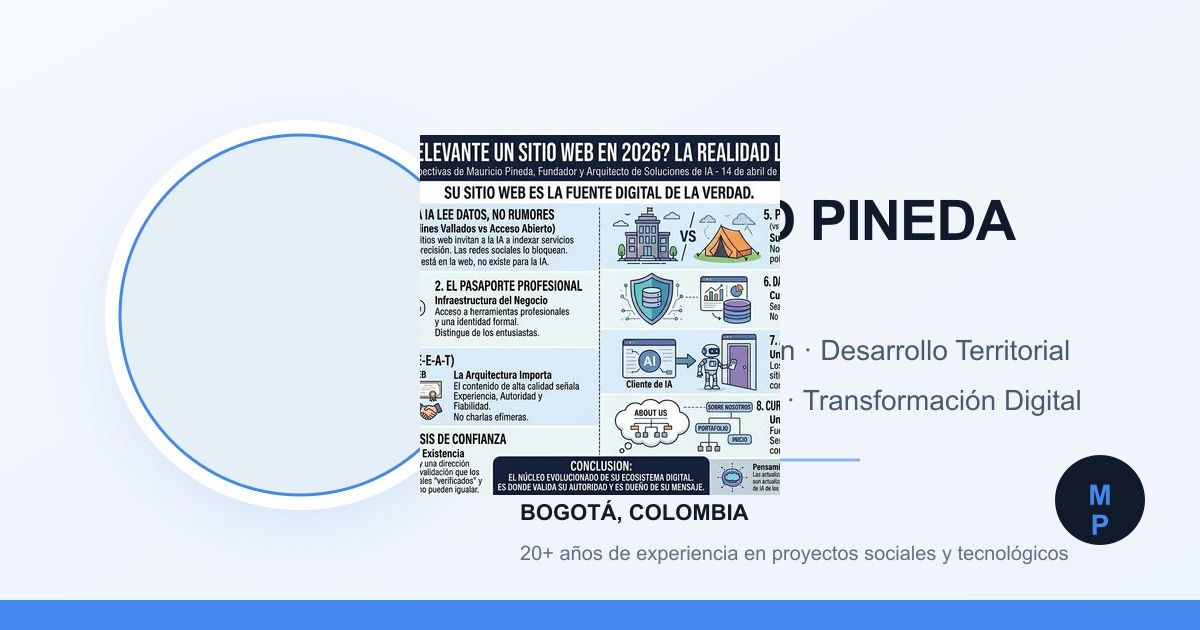
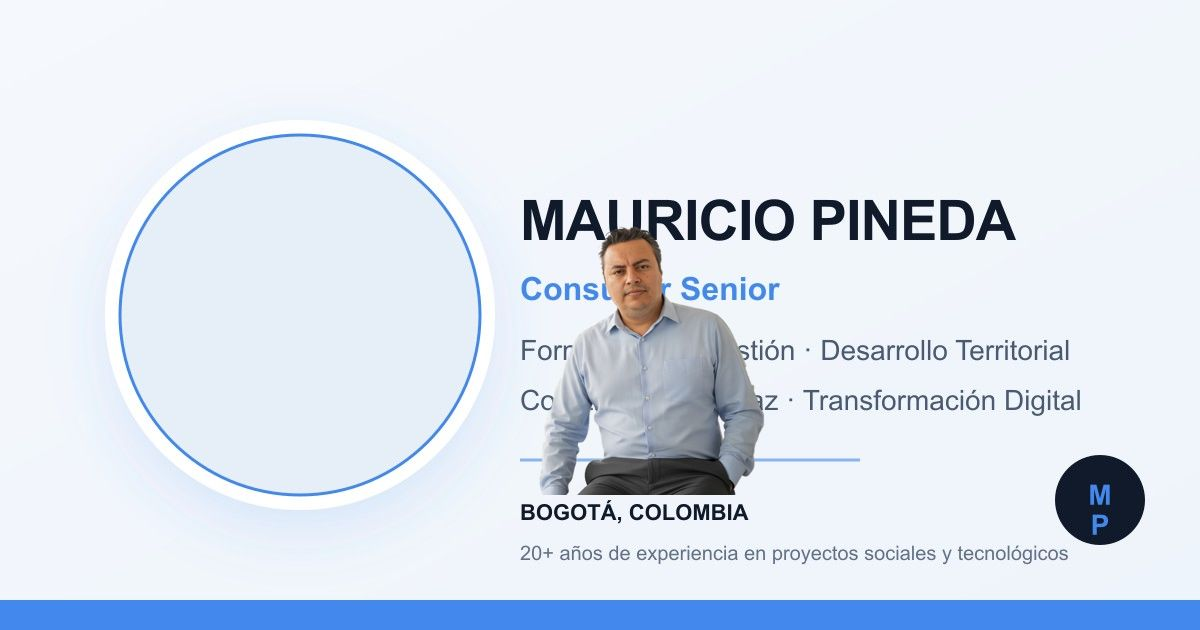
fix(consultoria): fix OG image with actual photo in circle and hide skip link visually

Changed region(s): [[0.3392, 0.2111, 0.6475, 0.7841]]

diff --git a/consultoria/consultoria.css b/consultoria/consultoria.css
@@ -1,4 +1,4 @@
-:root{--ink:#101a2b;--muted:#637087;--blue:#4388ed;--line:rgba(39,61,91,.14);--paper:#f5f8fc}*{box-sizing:border-box}html{scroll-behavior:smooth;scroll-padding-top:90px}body{margin:0;font-family:'DM Sans',sans-serif;color:var(--ink);background:#f5f8fc}body:before{content:"";position:fixed;inset:0;z-index:-3;background:radial-gradient(ellipse at 78% 16%,rgba(111,164,239,.16),transparent 33%),linear-gradient(135deg,#f7f9fc,#eef4fb 65%,#f8fafc)}#bg-canvas{position:fixed;inset:0;width:100%;height:100%;z-index:-1;pointer-events:none;opacity:.65}a{color:inherit}h1,h2,h3{font-family:Manrope,sans-serif;letter-spacing:-.045em}.site-nav{height:78px;position:sticky;top:0;z-index:20;display:flex;align-items:center;justify-content:space-between;padding:0 clamp(22px,7vw,110px);background:rgba(246,249,253,.83);backdrop-filter:blur(18px);border-bottom:1px solid rgba(45,69,100,.1)}.brand{font:800 1.65rem Manrope,sans-serif;letter-spacing:-.08em;text-decoration:none;color:var(--ink)}.brand span{color:var(--blue)}.site-nav nav{display:flex;align-items:center;gap:clamp(18px,3vw,42px)}.site-nav nav a,.text-link{font-size:.88rem;color:#46536a;text-decoration:none;font-weight:600;transition:color .2s}.site-nav nav a:hover,.text-link:hover{color:var(--blue)}.site-nav nav .nav-cta{padding:11px 17px;border:1px solid rgba(26,45,75,.22);border-radius:4px;color:var(--ink)}.nav-cta span{color:var(--blue)}.hero{min-height:calc(100vh - 78px);position:relative;display:grid;grid-template-columns:1.08fr .92fr;align-items:center;gap:2rem;padding:65px clamp(22px,8vw,125px) 88px;overflow:hidden}.hero-copy{max-width:700px;position:relative;z-index:2}.eyebrow{font-size:.72rem;letter-spacing:.16em;font-weight:700;color:#52627a}.eyebrow-dot{display:inline-block;width:7px;height:7px;background:var(--blue);border-radius:50%;margin-right:9px;box-shadow:0 0 0 5px rgba(67,136,237,.13)}.hero h1{font-size:clamp(3.2rem,6.1vw,6.2rem);line-height:1.02;font-weight:600;margin:25px 0}.hero h1 em,.section-heading h2 em,.services-heading h2 em,.contact h2 em{font-style:normal;color:var(--blue)}.hero-lead{font-size:clamp(1rem,1.3vw,1.17rem);line-height:1.85;color:#526078;max-width:610px}.hero-actions,.contact-actions{display:flex;align-items:center;gap:28px;flex-wrap:wrap;margin-top:32px}.button-primary{display:inline-flex;align-items:center;gap:24px;padding:15px 20px;background:var(--ink);color:#fff;text-decoration:none;border-radius:4px;font-size:.9rem;font-weight:600;transition:transform .25s,background .25s}.button-primary:hover{background:#245db3;transform:translateY(-3px)}.button-primary span{font-size:1.2rem}.hero-proof{display:flex;align-items:center;gap:16px;margin-top:48px;padding-top:20px;border-top:1px solid var(--line);max-width:420px}.hero-proof strong{font:700 1.45rem Manrope,sans-serif}.hero-proof span{font-size:.83rem;color:var(--muted);max-width:160px;line-height:1.45}.hero-visual{height:min(69vh,680px);min-height:450px;position:relative;display:flex;align-items:flex-end;justify-content:center;isolation:isolate}.hero-visual:before{content:"";position:absolute;inset:10% 4% 0;border-radius:48% 48% 8px 8px;background:linear-gradient(145deg,rgba(223,235,251,.8),rgba(244,247,252,.22));border:1px solid rgba(255,255,255,.8);z-index:-1}.portrait-halo{position:absolute;width:70%;aspect-ratio:1;border-radius:50%;background:rgba(87,150,239,.2);filter:blur(60px);top:10%;z-index:-1}.portrait{width:100%;height:100%;object-fit:contain;object-position:center bottom;position:relative;z-index:1;filter:drop-shadow(0 22px 28px rgba(24,45,77,.13))}.portrait-ring{position:absolute;border:1px solid rgba(63,125,215,.25);border-radius:50%;aspect-ratio:1;z-index:-1}.ring-a{width:88%;top:4%;left:0}.ring-b{width:68%;top:15%;right:-1%;border-style:dashed}.portrait-caption{position:absolute;z-index:2;bottom:20px;left:0;display:flex;align-items:center;gap:12px;padding:14px 18px;background:rgba(255,255,255,.9);border:1px solid rgba(255,255,255,.95);box-shadow:0 10px 35px rgba(31,55,88,.1);backdrop-filter:blur(10px);border-radius:5px}.portrait-caption strong,.portrait-caption small{display:block}.portrait-caption strong{font-size:.88rem}.portrait-caption small{font-size:.72rem;color:var(--muted);margin-top:3px}.status-dot{width:8px;height:8px;border-radius:50%;background:#43b58a;box-shadow:0 0 0 4px rgba(67,181,138,.14)}.floating-note{position:absolute;z-index:2;background:rgba(255,255,255,.88);border:1px solid rgba(255,255,255,.9);box-shadow:0 8px 28px rgba(32,56,91,.08);padding:12px 15px;font-size:.77rem;font-weight:600;border-radius:4px}.floating-note span{color:var(--blue);font-size:.68rem;margin-right:9px}.note-top{top:18%;right:-2%}.note-bottom{bottom:24%;left:-5%}.hero-index{position:absolute;bottom:25px;left:clamp(22px,8vw,125px);right:clamp(22px,8vw,125px);display:flex;justify-content:space-between;color:#8792a4;font-size:.65rem;letter-spacing:.14em}.trajectory{padding:100px clamp(22px,9vw,140px) 120px;background:rgba(250,252,255,.74);backdrop-filter:blur(8px)}.section-kicker{display:flex;justify-content:space-between;color:#65748a;font-size:.7rem;letter-spacing:.16em;font-weight:700;border-bottom:1px solid var(--line);padding-bottom:18px}.section-kicker span{color:var(--blue);font-size:1.1rem}.section-heading{display:grid;grid-template-columns:1fr .8fr;align-items:end;gap:4rem;padding:65px 0 52px}.section-heading h2,.services-heading h2,.contact h2{font-size:clamp(3rem,5.4vw,5.3rem);line-height:1.05;font-weight:600;margin:0}.section-heading>p,.services-heading>p:last-child{max-width:480px;color:var(--muted);line-height:1.85;font-size:1.02rem;margin:0 0 8px}.timeline{position:relative}.timeline:before{content:"";position:absolute;top:15px;bottom:30px;left:24px;width:1px;background:linear-gradient(var(--blue),rgba(67,136,237,.12))}.timeline-item{position:relative;display:grid;grid-template-columns:55px minmax(150px,.62fr) minmax(0,1.6fr) minmax(130px,.55fr);gap:25px;padding:40px 0 55px;border-top:1px solid var(--line)}.timeline-marker{position:relative;z-index:1}.timeline-marker span{display:grid;place-items:center;width:49px;height:49px;background:#f8fbff;border:1px solid rgba(67,136,237,.45);border-radius:50%;color:var(--blue);font:700 .75rem Manrope,sans-serif}.timeline-meta{padding-top:12px;display:flex;flex-direction:column;gap:9px;font-size:.65rem;letter-spacing:.1em;font-weight:700;color:#66748a}.timeline-meta span:first-child{color:var(--blue)}.timeline-overline{font-size:.72rem;text-transform:uppercase;letter-spacing:.12em;color:var(--blue);font-weight:700;margin:0 0 13px}.timeline-content h3{font-size:clamp(1.5rem,2.2vw,2.15rem);line-height:1.22;margin:0 0 18px;font-weight:600}.timeline-content>p:not(.timeline-overline){font-size:.94rem;line-height:1.9;color:#59677d;max-width:700px}.tag-row{display:flex;flex-wrap:wrap;gap:8px;margin-top:22px}.tag-row span{font-size:.7rem;color:#4e5e76;border:1px solid rgba(64,86,119,.17);background:rgba(255,255,255,.55);padding:7px 10px;border-radius:3px}.timeline-aside{padding:9px 0 0 18px;border-left:1px solid var(--line);align-self:start}.timeline-aside>span{font:600 2.6rem Manrope,sans-serif;color:rgba(67,136,237,.28)}.timeline-aside p{font-size:.78rem;line-height:1.7;color:#6a7890;margin-top:12px}.impact-stats{display:flex;gap:25px;flex-wrap:wrap;margin-top:27px;padding:18px 0;border-top:1px solid var(--line);border-bottom:1px solid var(--line)}.impact-stats div{display:flex;flex-direction:column;gap:3px}.impact-stats strong{font:700 1.7rem Manrope,sans-serif;color:var(--ink)}.impact-stats span{font-size:.68rem;color:var(--muted)}.timeline-current .timeline-marker span{background:var(--blue);color:#fff}.timeline-current .timeline-content h3{color:#173d76}.inline-link{display:inline-block;margin-top:22px;text-decoration:none;color:var(--blue);font-weight:700;font-size:.82rem}.services{padding:105px clamp(22px,9vw,140px);background:rgba(14,27,48,.97);color:#fff}.services-inner{display:grid;grid-template-columns:.85fr 1.15fr;gap:clamp(45px,8vw,120px)}.services-heading{position:sticky;top:130px;align-self:start}.services-heading .eyebrow{color:#9db6d8}.services-heading h2{margin:25px 0}.services-heading>p:last-child{color:#aebbd0}.services-heading h2 em{color:#78adff}.service-list{border-top:1px solid rgba(255,255,255,.16)}.service-card{display:grid;grid-template-columns:35px 1fr 20px;gap:18px;padding:27px 0;border-bottom:1px solid rgba(255,255,255,.16);align-items:start}.service-card>span{font-size:.72rem;color:#78adff;padding-top:5px}.service-card h3{font-size:1.22rem;margin:0 0 10px;letter-spacing:-.025em}.service-card p{font-size:.86rem;line-height:1.8;color:#b1bfd2;margin:0;max-width:550px}.service-card>b{font-size:1.1rem;color:#78adff;transition:transform .2s}.service-card:hover>b{transform:translate(3px,-3px)}.contact{text-align:center;padding:120px 22px 95px;background:rgba(245,249,255,.87)}.contact>.eyebrow{margin-bottom:22px}.contact h2{font-size:clamp(3.1rem,6vw,5.8rem)}.contact>p:not(.eyebrow){max-width:560px;margin:25px auto 0;color:var(--muted);line-height:1.85}.contact-actions{justify-content:center}.contact-signature{display:block;margin-top:72px;color:#8792a4;font-size:.75rem;letter-spacing:.08em}.site-footer{display:flex;justify-content:space-between;align-items:center;padding:25px clamp(22px,7vw,110px);background:#f5f8fc;border-top:1px solid var(--line);font-size:.75rem;color:#6b7890}.site-footer>a:last-child{color:#52627a;text-decoration:none}.reveal{opacity:0;transform:translateY(22px);transition:opacity .7s ease,transform .7s ease}.reveal.is-visible{opacity:1;transform:translateY(0)}@media(max-width:950px){.hero{grid-template-columns:1fr .8fr;padding-top:55px}.hero h1{font-size:clamp(3rem,6vw,4.7rem)}.hero-visual{min-height:400px;height:55vh}.timeline-item{grid-template-columns:55px 1fr 1.7fr;gap:18px}.timeline-aside{display:none}.services-inner{grid-template-columns:1fr}.services-heading{position:static}.services-heading h2 br{display:none}}@media(max-width:650px){.site-nav{height:66px;padding:0 18px}.site-nav nav{gap:13px}.site-nav nav a{font-size:.75rem}.site-nav nav>a:first-child{display:none}.site-nav nav .nav-cta{padding:9px 10px}.hero{display:flex;flex-direction:column;align-items:stretch;padding:50px 22px 65px;gap:15px}.hero h1{font-size:clamp(3rem,13vw,4.2rem)}.hero-lead{font-size:.98rem}.hero-proof{margin-top:32px}.hero-visual{height:380px;min-height:0;width:100%;max-width:440px;margin:0 auto}.portrait-caption{left:0;bottom:7px}.note-top{right:0}.note-bottom{left:0}.hero-index{bottom:18px;left:22px;right:22px}.trajectory{padding:68px 22px 78px}.section-heading{grid-template-columns:1fr;gap:20px;padding:45px 0 35px}.section-heading h2,.services-heading h2{font-size:3.4rem}.timeline:before{left:19px}.timeline-item{grid-template-columns:42px 1fr;gap:12px;padding:28px 0 36px}.timeline-marker span{width:39px;height:39px;font-size:.68rem}.timeline-meta{grid-column:2;flex-direction:row;flex-wrap:wrap;padding:0 0 4px;font-size:.58rem;gap:8px 14px}.timeline-content{grid-column:2}.timeline-content h3{font-size:1.55rem}.timeline-content>p:not(.timeline-overline){font-size:.89rem}.impact-stats{gap:16px}.impact-stats strong{font-size:1.45rem}.impact-stats span{max-width:90px}.services{padding:72px 22px}.service-card{grid-template-columns:25px 1fr 15px;gap:12px}.service-card h3{font-size:1.05rem}.service-card p{font-size:.82rem}.contact{padding:82px 22px 62px}.contact h2{font-size:3.3rem}.contact-actions{gap:20px}.site-footer{gap:15px;flex-wrap:wrap;padding:22px}.site-footer>span{order:3;width:100%}}@media(prefers-reduced-motion:reduce){html{scroll-behavior:auto}.reveal{opacity:1;transform:none;transition:none}.button-primary,.service-card>b{transition:none}}
+.skip-link{position:absolute;top:-100%;left:50%;transform:translateX(-50%);background:var(--ink);color:#fff;padding:12px 24px;border-radius:4px;z-index:100;font-weight:600;text-decoration:none;transition:all .2s;opacity:0}.skip-link:focus{top:10px;opacity:1;outline:3px solid var(--blue);outline-offset:2px}:root{--ink:#101a2b;--muted:#637087;--blue:#4388ed;--line:rgba(39,61,91,.14);--paper:#f5f8fc}*{box-sizing:border-box}html{scroll-behavior:smooth;scroll-padding-top:90px}body{margin:0;font-family:'DM Sans',sans-serif;color:var(--ink);background:#f5f8fc}body:before{content:"";position:fixed;inset:0;z-index:-3;background:radial-gradient(ellipse at 78% 16%,rgba(111,164,239,.16),transparent 33%),linear-gradient(135deg,#f7f9fc,#eef4fb 65%,#f8fafc)}#bg-canvas{position:fixed;inset:0;width:100%;height:100%;z-index:-1;pointer-events:none;opacity:.65}a{color:inherit}h1,h2,h3{font-family:Manrope,sans-serif;letter-spacing:-.045em}.site-nav{height:78px;position:sticky;top:0;z-index:20;display:flex;align-items:center;justify-content:space-between;padding:0 clamp(22px,7vw,110px);background:rgba(246,249,253,.83);backdrop-filter:blur(18px);border-bottom:1px solid rgba(45,69,100,.1)}.brand{font:800 1.65rem Manrope,sans-serif;letter-spacing:-.08em;text-decoration:none;color:var(--ink)}.brand span{color:var(--blue)}.site-nav nav{display:flex;align-items:center;gap:clamp(18px,3vw,42px)}.site-nav nav a,.text-link{font-size:.88rem;color:#46536a;text-decoration:none;font-weight:600;transition:color .2s}.site-nav nav a:hover,.text-link:hover{color:var(--blue)}.site-nav nav .nav-cta{padding:11px 17px;border:1px solid rgba(26,45,75,.22);border-radius:4px;color:var(--ink)}.nav-cta span{color:var(--blue)}.hero{min-height:calc(100vh - 78px);position:relative;display:grid;grid-template-columns:1.08fr .92fr;align-items:center;gap:2rem;padding:65px clamp(22px,8vw,125px) 88px;overflow:hidden}.hero-copy{max-width:700px;position:relative;z-index:2}.eyebrow{font-size:.72rem;letter-spacing:.16em;font-weight:700;color:#52627a}.eyebrow-dot{display:inline-block;width:7px;height:7px;background:var(--blue);border-radius:50%;margin-right:9px;box-shadow:0 0 0 5px rgba(67,136,237,.13)}.hero h1{font-size:clamp(3.2rem,6.1vw,6.2rem);line-height:1.02;font-weight:600;margin:25px 0}.hero h1 em,.section-heading h2 em,.services-heading h2 em,.contact h2 em{font-style:normal;color:var(--blue)}.hero-lead{font-size:clamp(1rem,1.3vw,1.17rem);line-height:1.85;color:#526078;max-width:610px}.hero-actions,.contact-actions{display:flex;align-items:center;gap:28px;flex-wrap:wrap;margin-top:32px}.button-primary{display:inline-flex;align-items:center;gap:24px;padding:15px 20px;background:var(--ink);color:#fff;text-decoration:none;border-radius:4px;font-size:.9rem;font-weight:600;transition:transform .25s,background .25s}.button-primary:hover{background:#245db3;transform:translateY(-3px)}.button-primary span{font-size:1.2rem}.hero-proof{display:flex;align-items:center;gap:16px;margin-top:48px;padding-top:20px;border-top:1px solid var(--line);max-width:420px}.hero-proof strong{font:700 1.45rem Manrope,sans-serif}.hero-proof span{font-size:.83rem;color:var(--muted);max-width:160px;line-height:1.45}.hero-visual{height:min(69vh,680px);min-height:450px;position:relative;display:flex;align-items:flex-end;justify-content:center;isolation:isolate}.hero-visual:before{content:"";position:absolute;inset:10% 4% 0;border-radius:48% 48% 8px 8px;background:linear-gradient(145deg,rgba(223,235,251,.8),rgba(244,247,252,.22));border:1px solid rgba(255,255,255,.8);z-index:-1}.portrait-halo{position:absolute;width:70%;aspect-ratio:1;border-radius:50%;background:rgba(87,150,239,.2);filter:blur(60px);top:10%;z-index:-1}.portrait{width:100%;height:100%;object-fit:contain;object-position:center bottom;position:relative;z-index:1;filter:drop-shadow(0 22px 28px rgba(24,45,77,.13))}.portrait-ring{position:absolute;border:1px solid rgba(63,125,215,.25);border-radius:50%;aspect-ratio:1;z-index:-1}.ring-a{width:88%;top:4%;left:0}.ring-b{width:68%;top:15%;right:-1%;border-style:dashed}.portrait-caption{position:absolute;z-index:2;bottom:20px;left:0;display:flex;align-items:center;gap:12px;padding:14px 18px;background:rgba(255,255,255,.9);border:1px solid rgba(255,255,255,.95);box-shadow:0 10px 35px rgba(31,55,88,.1);backdrop-filter:blur(10px);border-radius:5px}.portrait-caption strong,.portrait-caption small{display:block}.portrait-caption strong{font-size:.88rem}.portrait-caption small{font-size:.72rem;color:var(--muted);margin-top:3px}.status-dot{width:8px;height:8px;border-radius:50%;background:#43b58a;box-shadow:0 0 0 4px rgba(67,181,138,.14)}.floating-note{position:absolute;z-index:2;background:rgba(255,255,255,.88);border:1px solid rgba(255,255,255,.9);box-shadow:0 8px 28px rgba(32,56,91,.08);padding:12px 15px;font-size:.77rem;font-weight:600;border-radius:4px}.floating-note span{color:var(--blue);font-size:.68rem;margin-right:9px}.note-top{top:18%;right:-2%}.note-bottom{bottom:24%;left:-5%}.hero-index{position:absolute;bottom:25px;left:clamp(22px,8vw,125px);right:clamp(22px,8vw,125px);display:flex;justify-content:space-between;color:#8792a4;font-size:.65rem;letter-spacing:.14em}.trajectory{padding:100px clamp(22px,9vw,140px) 120px;background:rgba(250,252,255,.74);backdrop-filter:blur(8px)}.section-kicker{display:flex;justify-content:space-between;color:#65748a;font-size:.7rem;letter-spacing:.16em;font-weight:700;border-bottom:1px solid var(--line);padding-bottom:18px}.section-kicker span{color:var(--blue);font-size:1.1rem}.section-heading{display:grid;grid-template-columns:1fr .8fr;align-items:end;gap:4rem;padding:65px 0 52px}.section-heading h2,.services-heading h2,.contact h2{font-size:clamp(3rem,5.4vw,5.3rem);line-height:1.05;font-weight:600;margin:0}.section-heading>p,.services-heading>p:last-child{max-width:480px;color:var(--muted);line-height:1.85;font-size:1.02rem;margin:0 0 8px}.timeline{position:relative}.timeline:before{content:"";position:absolute;top:15px;bottom:30px;left:24px;width:1px;background:linear-gradient(var(--blue),rgba(67,136,237,.12))}.timeline-item{position:relative;display:grid;grid-template-columns:55px minmax(150px,.62fr) minmax(0,1.6fr) minmax(130px,.55fr);gap:25px;padding:40px 0 55px;border-top:1px solid var(--line)}.timeline-marker{position:relative;z-index:1}.timeline-marker span{display:grid;place-items:center;width:49px;height:49px;background:#f8fbff;border:1px solid rgba(67,136,237,.45);border-radius:50%;color:var(--blue);font:700 .75rem Manrope,sans-serif}.timeline-meta{padding-top:12px;display:flex;flex-direction:column;gap:9px;font-size:.65rem;letter-spacing:.1em;font-weight:700;color:#66748a}.timeline-meta span:first-child{color:var(--blue)}.timeline-overline{font-size:.72rem;text-transform:uppercase;letter-spacing:.12em;color:var(--blue);font-weight:700;margin:0 0 13px}.timeline-content h3{font-size:clamp(1.5rem,2.2vw,2.15rem);line-height:1.22;margin:0 0 18px;font-weight:600}.timeline-content>p:not(.timeline-overline){font-size:.94rem;line-height:1.9;color:#59677d;max-width:700px}.tag-row{display:flex;flex-wrap:wrap;gap:8px;margin-top:22px}.tag-row span{font-size:.7rem;color:#4e5e76;border:1px solid rgba(64,86,119,.17);background:rgba(255,255,255,.55);padding:7px 10px;border-radius:3px}.timeline-aside{padding:9px 0 0 18px;border-left:1px solid var(--line);align-self:start}.timeline-aside>span{font:600 2.6rem Manrope,sans-serif;color:rgba(67,136,237,.28)}.timeline-aside p{font-size:.78rem;line-height:1.7;color:#6a7890;margin-top:12px}.impact-stats{display:flex;gap:25px;flex-wrap:wrap;margin-top:27px;padding:18px 0;border-top:1px solid var(--line);border-bottom:1px solid var(--line)}.impact-stats div{display:flex;flex-direction:column;gap:3px}.impact-stats strong{font:700 1.7rem Manrope,sans-serif;color:var(--ink)}.impact-stats span{font-size:.68rem;color:var(--muted)}.timeline-current .timeline-marker span{background:var(--blue);color:#fff}.timeline-current .timeline-content h3{color:#173d76}.inline-link{display:inline-block;margin-top:22px;text-decoration:none;color:var(--blue);font-weight:700;font-size:.82rem}.services{padding:105px clamp(22px,9vw,140px);background:rgba(14,27,48,.97);color:#fff}.services-inner{display:grid;grid-template-columns:.85fr 1.15fr;gap:clamp(45px,8vw,120px)}.services-heading{position:sticky;top:130px;align-self:start}.services-heading .eyebrow{color:#9db6d8}.services-heading h2{margin:25px 0}.services-heading>p:last-child{color:#aebbd0}.services-heading h2 em{color:#78adff}.service-list{border-top:1px solid rgba(255,255,255,.16)}.service-card{display:grid;grid-template-columns:35px 1fr 20px;gap:18px;padding:27px 0;border-bottom:1px solid rgba(255,255,255,.16);align-items:start}.service-card>span{font-size:.72rem;color:#78adff;padding-top:5px}.service-card h3{font-size:1.22rem;margin:0 0 10px;letter-spacing:-.025em}.service-card p{font-size:.86rem;line-height:1.8;color:#b1bfd2;margin:0;max-width:550px}.service-card>b{font-size:1.1rem;color:#78adff;transition:transform .2s}.service-card:hover>b{transform:translate(3px,-3px)}.contact{text-align:center;padding:120px 22px 95px;background:rgba(245,249,255,.87)}.contact>.eyebrow{margin-bottom:22px}.contact h2{font-size:clamp(3.1rem,6vw,5.8rem)}.contact>p:not(.eyebrow){max-width:560px;margin:25px auto 0;color:var(--muted);line-height:1.85}.contact-actions{justify-content:center}.contact-signature{display:block;margin-top:72px;color:#8792a4;font-size:.75rem;letter-spacing:.08em}.site-footer{display:flex;justify-content:space-between;align-items:center;padding:25px clamp(22px,7vw,110px);background:#f5f8fc;border-top:1px solid var(--line);font-size:.75rem;color:#6b7890}.site-footer>a:last-child{color:#52627a;text-decoration:none}.reveal{opacity:0;transform:translateY(22px);transition:opacity .7s ease,transform .7s ease}.reveal.is-visible{opacity:1;transform:translateY(0)}@media(max-width:950px){.hero{grid-template-columns:1fr .8fr;padding-top:55px}.hero h1{font-size:clamp(3rem,6vw,4.7rem)}.hero-visual{min-height:400px;height:55vh}.timeline-item{grid-template-columns:55px 1fr 1.7fr;gap:18px}.timeline-aside{display:none}.services-inner{grid-template-columns:1fr}.services-heading{position:static}.services-heading h2 br{display:none}}@media(max-width:650px){.site-nav{height:66px;padding:0 18px}.site-nav nav{gap:13px}.site-nav nav a{font-size:.75rem}.site-nav nav>a:first-child{display:none}.site-nav nav .nav-cta{padding:9px 10px}.hero{display:flex;flex-direction:column;align-items:stretch;padding:50px 22px 65px;gap:15px}.hero h1{font-size:clamp(3rem,13vw,4.2rem)}.hero-lead{font-size:.98rem}.hero-proof{margin-top:32px}.hero-visual{height:380px;min-height:0;width:100%;max-width:440px;margin:0 auto}.portrait-caption{left:0;bottom:7px}.note-top{right:0}.note-bottom{left:0}.hero-index{bottom:18px;left:22px;right:22px}.trajectory{padding:68px 22px 78px}.section-heading{grid-template-columns:1fr;gap:20px;padding:45px 0 35px}.section-heading h2,.services-heading h2{font-size:3.4rem}.timeline:before{left:19px}.timeline-item{grid-template-columns:42px 1fr;gap:12px;padding:28px 0 36px}.timeline-marker span{width:39px;height:39px;font-size:.68rem}.timeline-meta{grid-column:2;flex-direction:row;flex-wrap:wrap;padding:0 0 4px;font-size:.58rem;gap:8px 14px}.timeline-content{grid-column:2}.timeline-content h3{font-size:1.55rem}.timeline-content>p:not(.timeline-overline){font-size:.89rem}.impact-stats{gap:16px}.impact-stats strong{font-size:1.45rem}.impact-stats span{max-width:90px}.services{padding:72px 22px}.service-card{grid-template-columns:25px 1fr 15px;gap:12px}.service-card h3{font-size:1.05rem}.service-card p{font-size:.82rem}.contact{padding:82px 22px 62px}.contact h2{font-size:3.3rem}.contact-actions{gap:20px}.site-footer{gap:15px;flex-wrap:wrap;padding:22px}.site-footer>span{order:3;width:100%}}@media(prefers-reduced-motion:reduce){html{scroll-behavior:auto}.reveal{opacity:1;transform:none;transition:none}.button-primary,.service-card>b{transition:none}}
 
 /* Interactive project constellation in the portrait */
 .hero-visual{overflow:visible}
